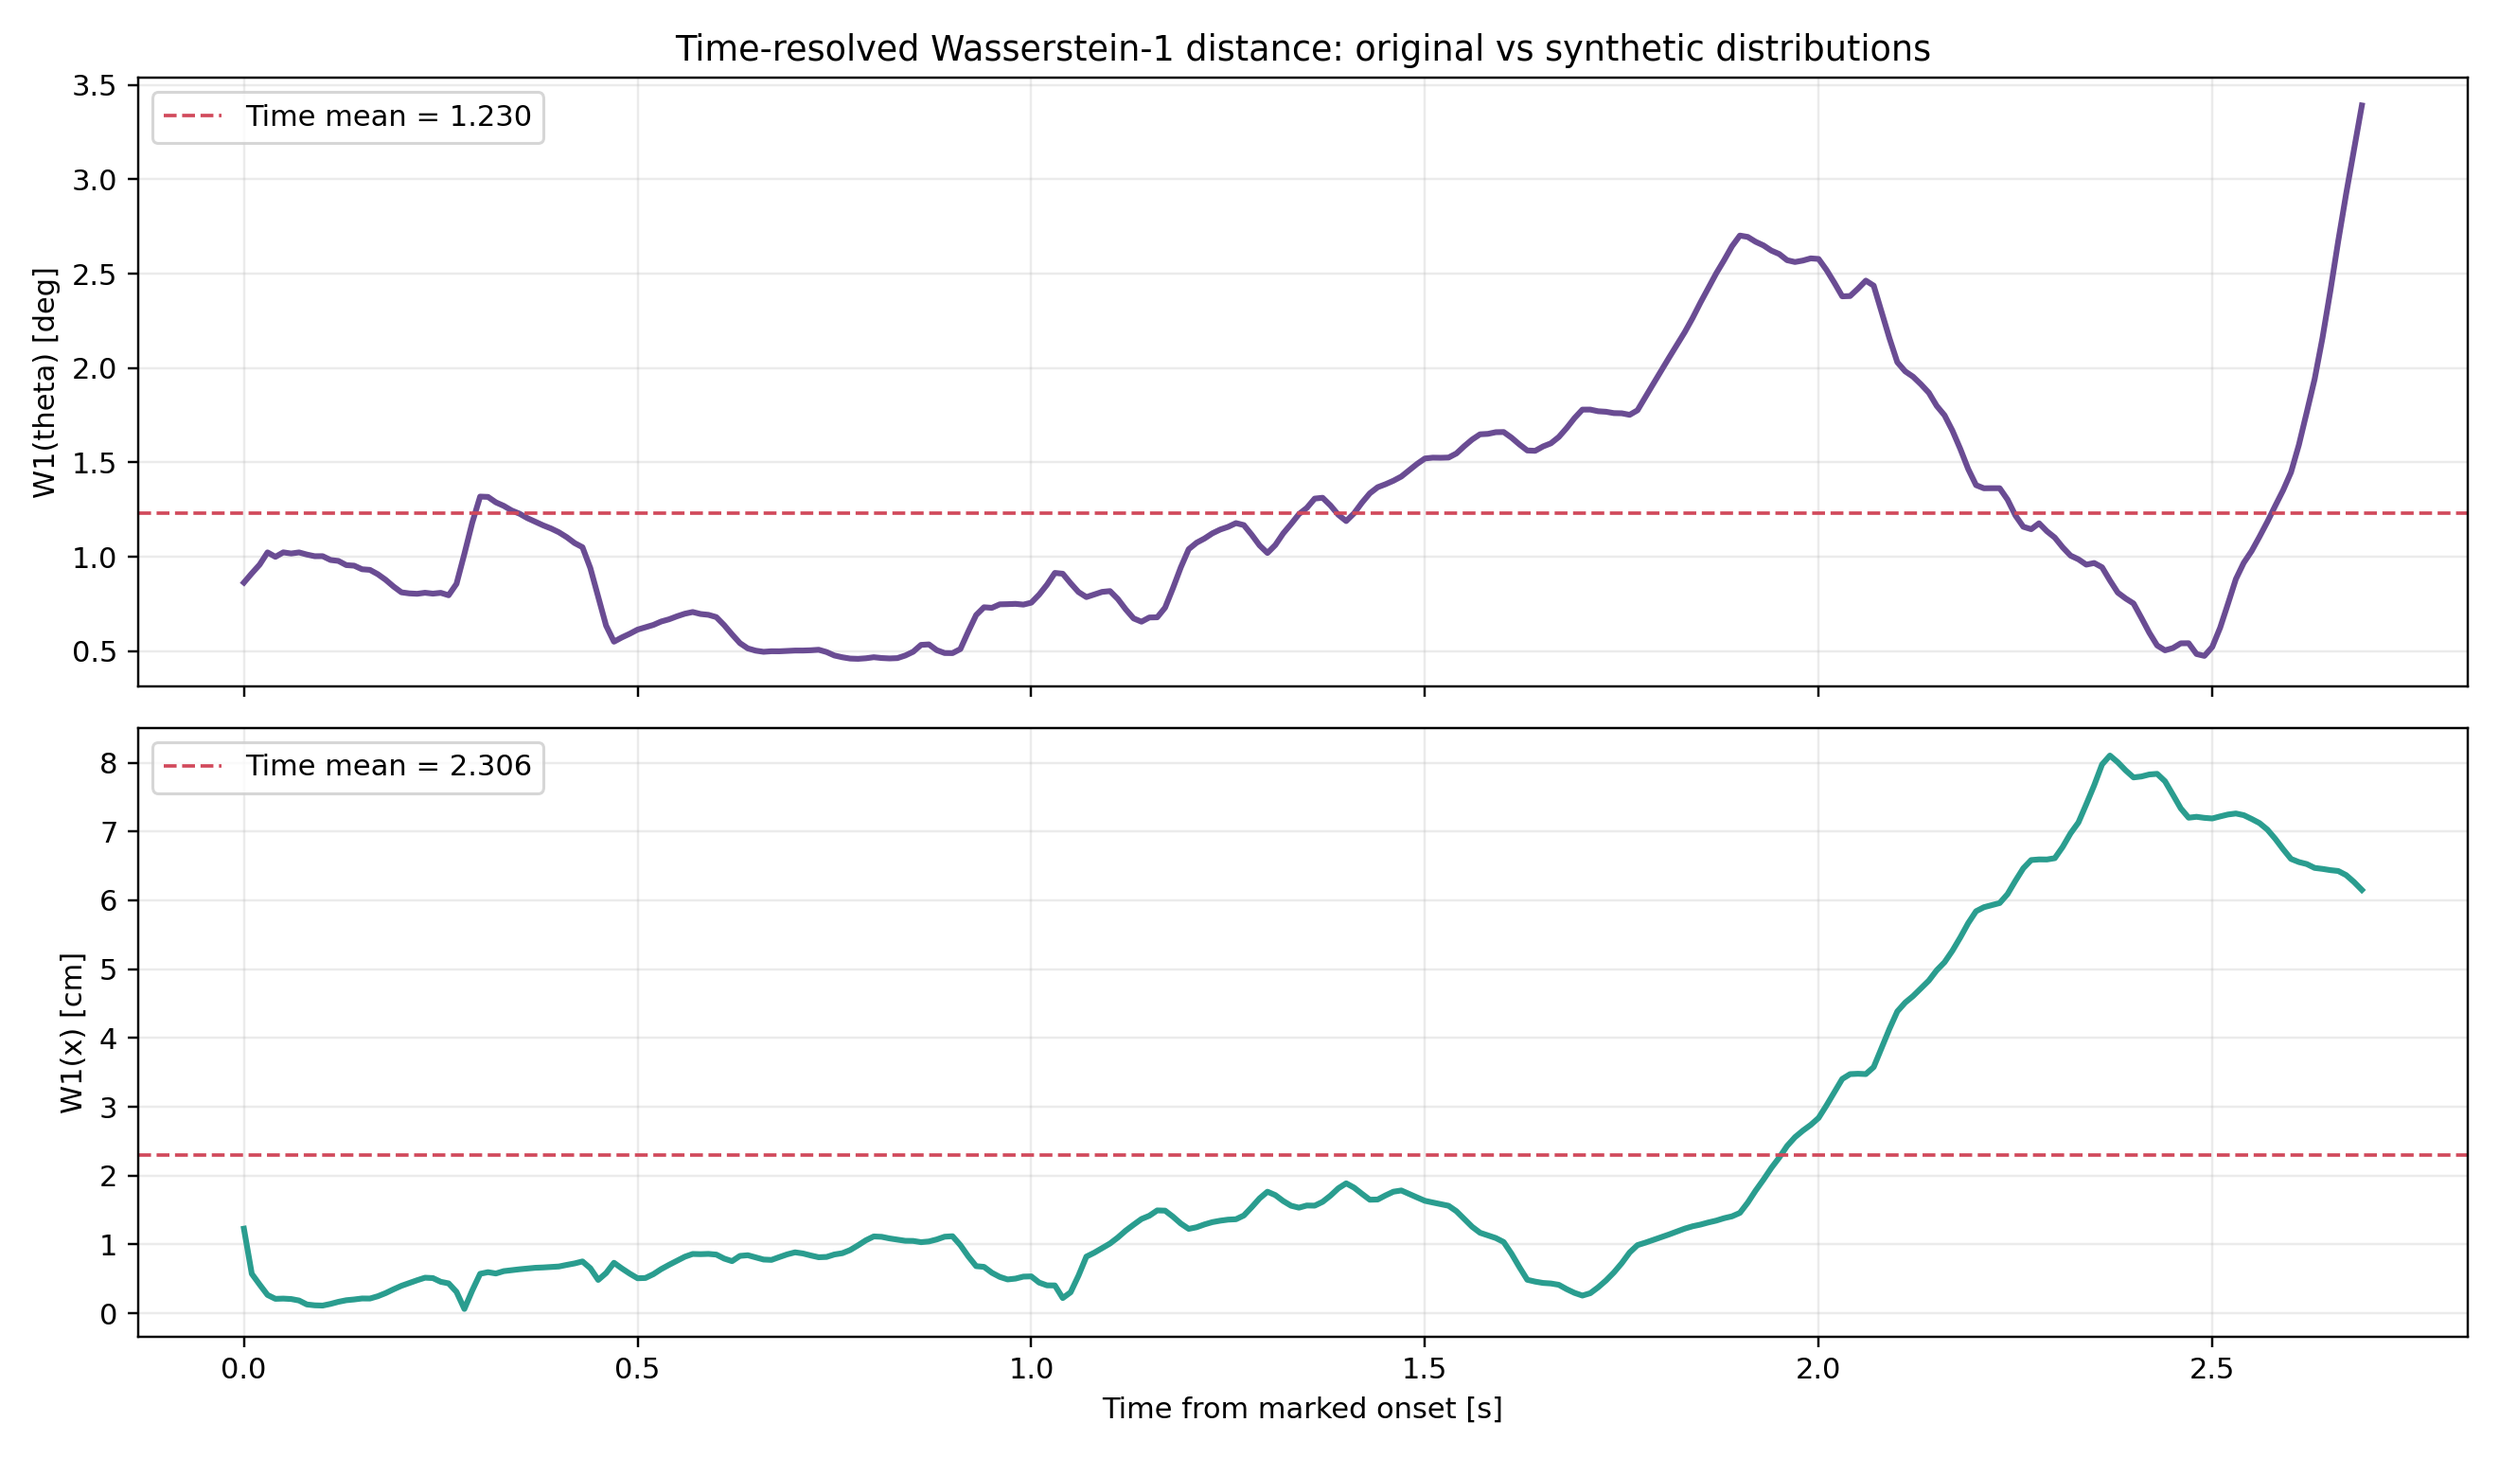
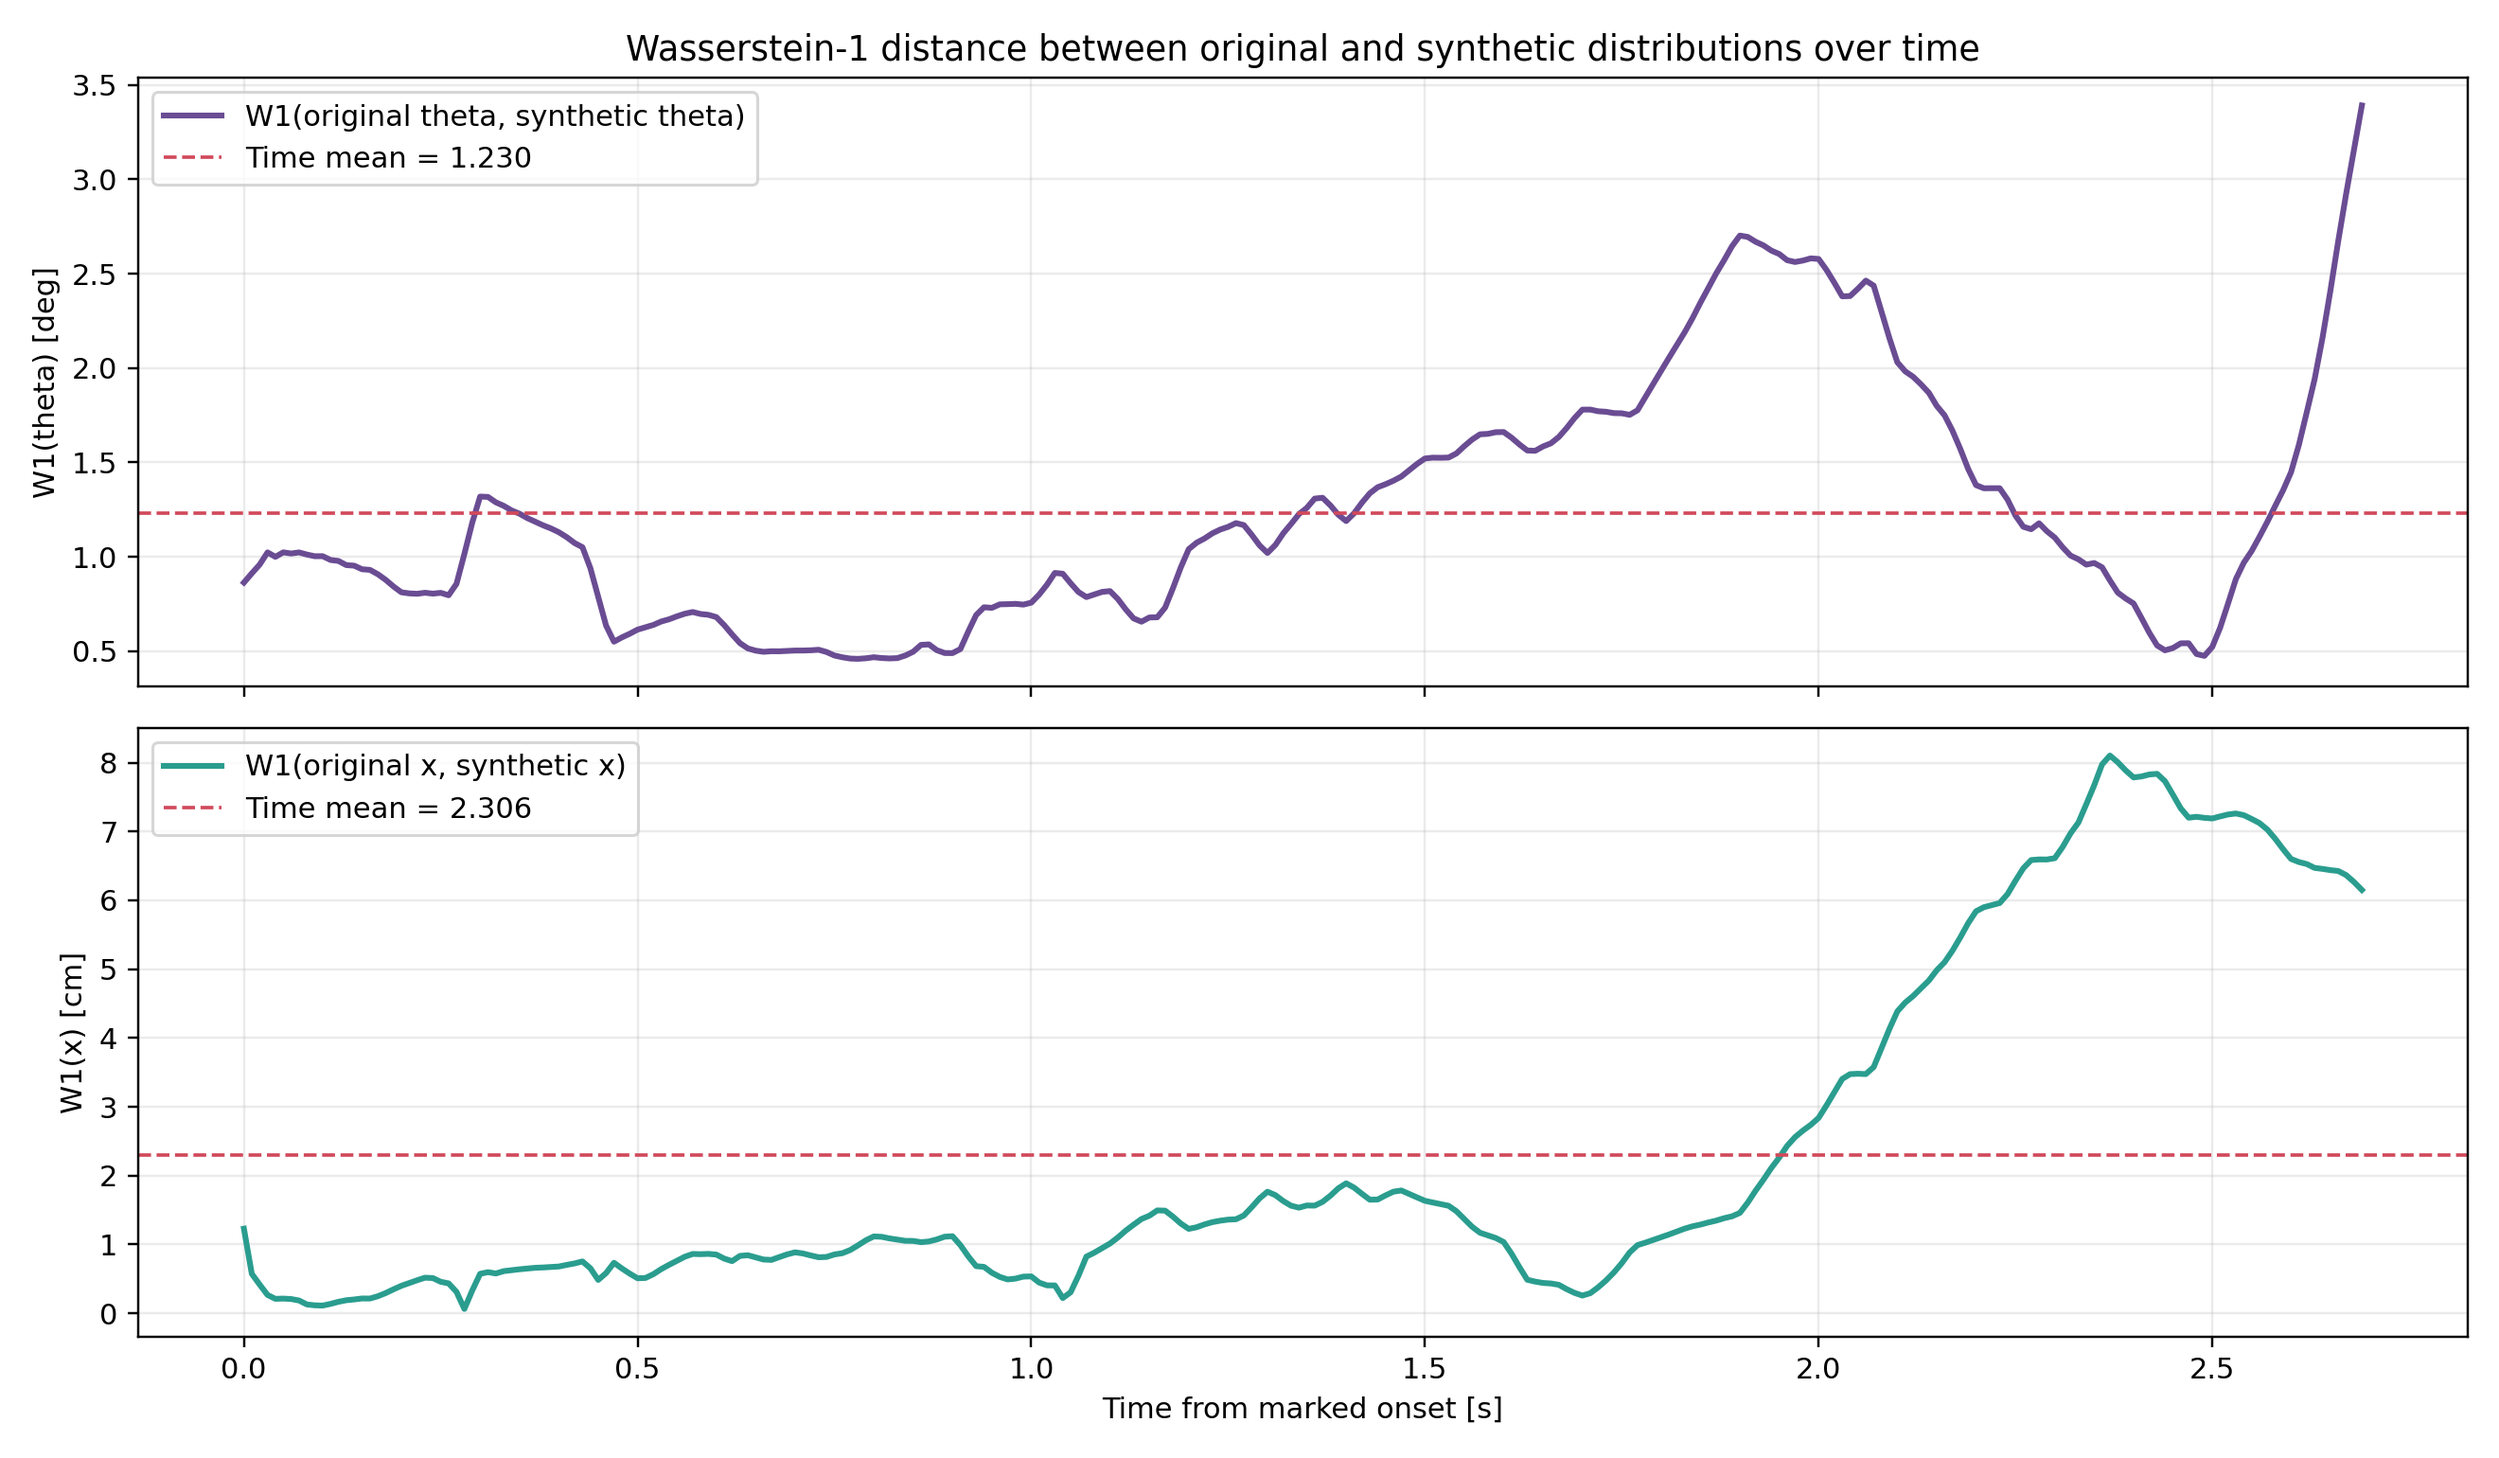
wasserstein_distance_over_time

Changed region(s): [[0.0621, 0.0, 0.7765, 0.1247], [0.0621, 0.4987, 0.2485, 0.561]]

diff --git a/S43_Pole_PINN_Human_Motion/analysis/compare_original_synthetic_distributions.py b/S43_Pole_PINN_Human_Motion/analysis/compare_original_synthetic_distributions.py
@@ -200,16 +200,16 @@ def plot_matched_lines(real_trials, synthetic_paths, trajectories):
 
 def plot_wasserstein_time(time, theta_distance, x_distance):
     fig, axes = plt.subplots(2, 1, figsize=(12, 7), sharex=True)
-    for ax, values, ylabel, color in (
-        (axes[0], theta_distance, "W1(theta) [deg]", "#6A4C93"),
-        (axes[1], x_distance, "W1(x) [cm]", "#2A9D8F"),
+    for ax, values, ylabel, color, distance_label in (
+        (axes[0], theta_distance, "W1(theta) [deg]", "#6A4C93", "W1(original theta, synthetic theta)"),
+        (axes[1], x_distance, "W1(x) [cm]", "#2A9D8F", "W1(original x, synthetic x)"),
     ):
-        ax.plot(time, values, color=color, lw=2.0)
+        ax.plot(time, values, color=color, lw=2.0, label=distance_label)
         ax.axhline(np.mean(values), color="#D1495B", ls="--", lw=1.2, label=f"Time mean = {np.mean(values):.3f}")
         ax.grid(alpha=0.25)
         ax.set_ylabel(ylabel)
         ax.legend()
-    axes[0].set_title("Time-resolved Wasserstein-1 distance: original vs synthetic distributions")
+    axes[0].set_title("Wasserstein-1 distance between original and synthetic distributions over time")
     axes[1].set_xlabel("Time from marked onset [s]")
     fig.tight_layout()
     fig.savefig(OUTPUT / "wasserstein_distance_over_time.png", dpi=220)
